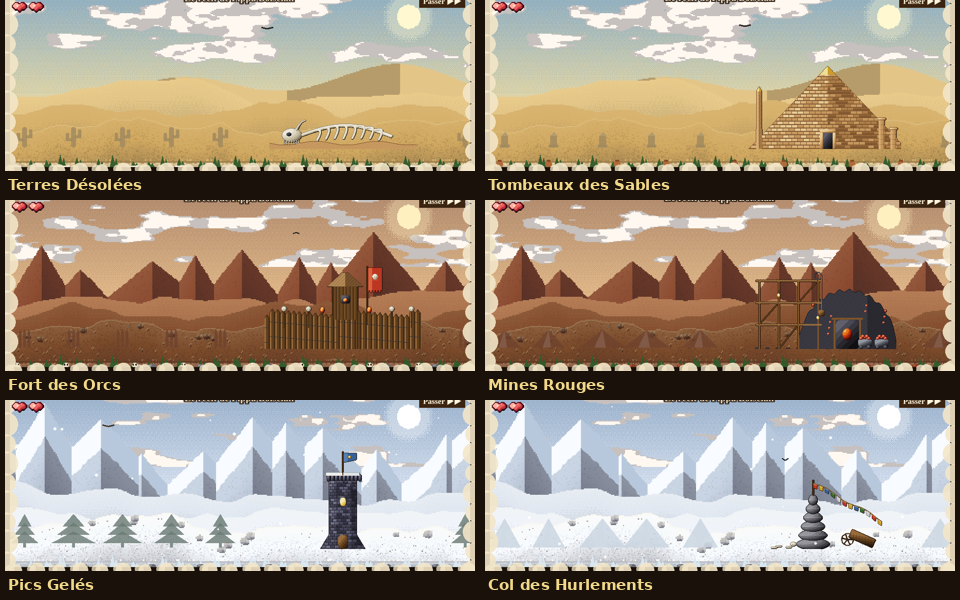
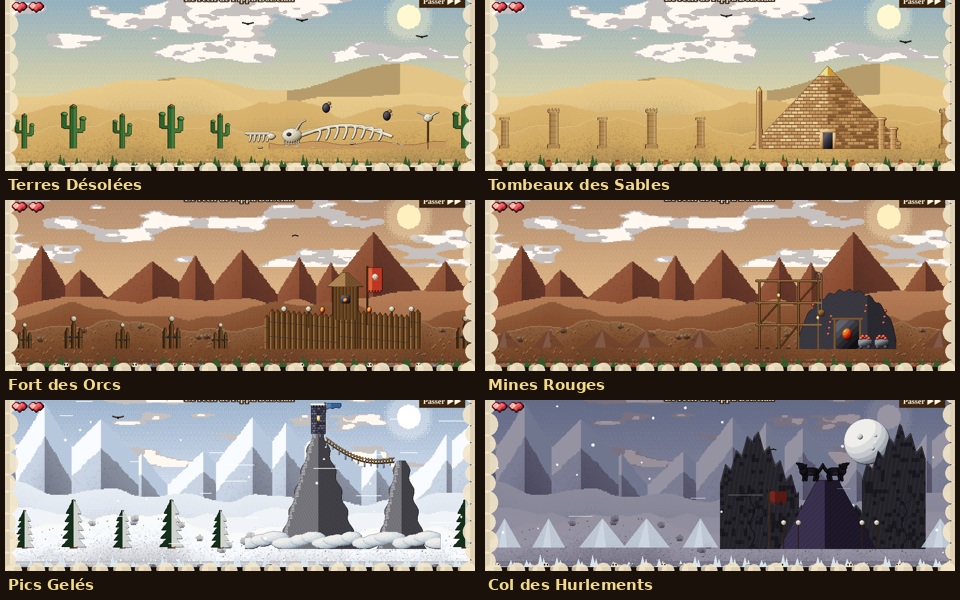
v0.81 : Lothlórien, Fondcombe, Opale, Bibliothèque, Désolées, Col, Pics refaits ; arbres peints (planche 11 v3 à valider)
Claude-Session: https://claude.ai/code/session_018kbaP56NxxNMUzmj9EfKBC

diff --git a/src/reperesHD.js b/src/reperesHD.js
@@ -379,3 +379,266 @@ function textureRepere(scene, quoi) {
   t.texture(scene, cle);
   return cle;
 }
+
+// --- (v0.81) Les repères refaits à la demande du joueur ---
+Object.assign(RAMPES_REPERES, {
+  feuilleOr: [0x5a3a06, 0x8a5c0a, 0xc08a14, 0xe0b028, 0xf4d04a, 0xfff090],
+  argent: [0x5a6070, 0x8890a0, 0xb0b8c4, 0xd0d6de, 0xe8ecf0, 0xffffff],
+  lueurBleue: [0x1a3a6a, 0x2a5aa0, 0x4a84d0, 0x78b0f0, 0xb0d8ff, 0xf0faff],
+  automne: [0x4a1a06, 0x7a2e0a, 0xb04a12, 0xd86a20, 0xf0943a, 0xffc070],
+  nuit: [0x0a0812, 0x14101e, 0x201a2e, 0x2e2640, 0x3e3456, 0x544a70],
+  loup: [0x0c0c10, 0x18181e, 0x26262e, 0x363640, 0x4a4a56, 0x62626e],
+  mousse: [0x0e2414, 0x1a3a1e, 0x26502a, 0x346a36, 0x468844, 0x60a858],
+});
+for (const [k, v] of Object.entries(RAMPES_REPERES)) if (!REPERES_HD.__rampes) REPERES_HD.__rampes = true;
+
+// Un halo de lumière autour d'un point (des pixels clairs de plus en plus rares)
+function halo(t, mat, cx, cy, r) {
+  for (let y = Math.floor(cy - r); y <= cy + r; y++) for (let x = Math.floor(cx - r); x <= cx + r; x++) {
+    const d = Math.hypot(x - cx, y - cy);
+    if (d <= r && hachage(x, y, 5) > d / r) t.poser(x, y, mat, d < r * 0.35 ? 5 : 4);
+  }
+}
+// Une couronne de feuillage : un ellipsoïde dont le bord est découpé en touffes, et des reflets
+function feuillage(t, mat, cx, cy, rx, ry, graine = 1) {
+  t.forme(mat, (x, y) => {
+    const dx = (x + 0.5 - cx) / rx, dy = (y + 0.5 - cy) / ry, d = dx * dx + dy * dy;
+    const bord = 1 - 0.14 * hachage(Math.floor(x / 4), Math.floor(y / 4), graine);
+    return d <= bord ? [dx, dy, Math.sqrt(Math.max(0, 1 - d))] : null;
+  }, { motif: (x, y) => (hachage(x, y, graine + 3) > 0.86 ? 0.8 : hachage(x, y, graine + 7) > 0.88 ? -0.7 : 0) });
+}
+
+// Un étage de feuillage fait de nombreuses touffes (plus vivant qu'un seul disque) : le dessous dans l'ombre
+function etageFeuilles(t, mat, cx, cy, rx, ry, graine, n = 26) {
+  for (let k = 0; k < n; k++) {
+    const a = hachage(k, 1, graine) * Math.PI * 2, r = Math.sqrt(hachage(k, 2, graine));
+    const x = cx + Math.cos(a) * rx * r * 0.85, y = cy + Math.sin(a) * ry * r * 0.7 - ry * 0.15;
+    const tr = 7 + hachage(k, 3, graine) * (rx / 6);
+    feuillage(t, mat, x, y, tr, tr * 0.7, graine + k);
+  }
+  for (let x = Math.round(cx - rx); x <= cx + rx; x++) for (let y = Math.round(cy); y <= cy + ry; y++) if (t.mat(x, y) === mat && t.mat(x, y + 1) !== mat) { t.poser(x, y, mat, 1); t.poser(x, y - 1, mat, 2); }   // le dessous, dans l'ombre
+}
+
+Object.assign(REPERES_HD, {
+  // Lothlórien : un mallorn géant au tronc d'argent, ses étages de feuilles d'or, un talan (plateforme)
+  // et sa maison elfique aux fenêtres de lumière, l'escalier qui tourne autour du tronc et ses
+  // lanternes, d'autres mallorns, et des lueurs bleues qui flottent
+  lothlorien: { l: 400, h: 300, dessin(t) {
+    // les mallorns du fond, de chaque côté
+    for (const [cx, h, r] of [[40, 210, 44], [360, 230, 48], [100, 170, 32]]) {
+      remplir(t, 'argent', (x, y) => y >= 300 - h && Math.abs(x + 0.5 - cx) < 5 + Math.max(0, y - 280) * 0.5, (x) => (x < cx ? 4 : 2));
+      etageFeuilles(t, 'feuilleOr', cx, 300 - h, r, r * 0.6, cx, 12);
+    }
+    // le grand tronc d'argent, épais, cannelé, ses racines qui s'étalent
+    remplir(t, 'argent', (x, y) => { const w = 20 + Math.max(0, y - 240) ** 1.4 * 0.16; return y >= 60 && Math.abs(x + 0.5 - 200) < w; },
+      (x, y) => (x < 190 ? 5 : x > 210 ? 2 : 3) + ((x - 200) % 7 === 0 ? -1 : 0) + ((y * 3 + x) % 23 === 0 ? -1 : 0));
+    for (const [x1, y1] of [[100, 186], [300, 186], [120, 100], [280, 100], [170, 46], [230, 46]]) ligne(t, 'argent', 4, 200, y1 + 26, x1, y1, 4);   // les grandes branches qui montent
+    // les étages de feuilles d'or, en touffes
+    etageFeuilles(t, 'feuilleOr', 200, 196, 120, 30, 21, 30);
+    etageFeuilles(t, 'feuilleOr', 200, 100, 140, 46, 22, 40);
+    etageFeuilles(t, 'feuilleOr', 200, 44, 86, 30, 23, 22);
+    // le talan : une plateforme blanche, la maison elfique, ses fenêtres en arc et son toit doré
+    remplir(t, 'marbre', (x, y) => y >= 140 && y < 146 && Math.abs(x + 0.5 - 200) < 74, (x, y) => (y === 140 ? 5 : 3));
+    remplir(t, 'marbre', (x, y) => y >= 114 && y < 140 && Math.abs(x + 0.5 - 200) < 42, (x) => (x < 190 ? 4 : 3));
+    remplir(t, 'feuilleOr', (x, y) => y >= 98 && y < 116 && Math.abs(x + 0.5 - 200) < (y - 94) * 2.6, (x) => (x < 200 ? 5 : 3));
+    for (const x of [172, 188, 212, 228]) t.forme('lumiere', (px, py) => { const dx = px + 0.5 - x, dy = py + 0.5 - 126; return Math.abs(dx) < 4 && dy < 12 && (dy > 0 || dx * dx + dy * dy < 16) ? [0, 0, 1] : null; }, { decalage: 1 });
+    for (let x = 128; x <= 272; x += 7) ligne(t, 'marbre', 4, x, 140, x, 134, 1);
+    // l'escalier blanc qui tourne autour du tronc, et ses lanternes
+    for (let k = 0; k < 9; k++) { const y = 288 - k * 16, x = 200 + (k % 2 ? 30 : -30); ligne(t, 'marbre', 5, 200, y + 8, x, y, 2); if (k % 2 === 0) halo(t, 'lumiere', x, y - 4, 4.5); }
+    // les lueurs bleues qui flottent
+    for (let k = 0; k < 18; k++) halo(t, 'lueurBleue', 20 + hachage(k, 1, 9) * 360, 30 + hachage(k, 2, 9) * 250, 2.5 + hachage(k, 3, 9) * 2.5);
+  } },
+  // Fondcombe : la vallée cachée, les falaises et leurs cascades, la maison d'Elrond en pierre
+  // claire, ses tours fines, ses arches et ses fenêtres dorées, le pont sur les chutes, les arbres d'automne
+  fondcombe: { l: 420, h: 290, dessin(t) {
+    // les falaises et la mousse
+    // (des falaises aux bords déchiquetés, des strates claires et des ombres)
+    const bordG = y => 70 + Math.sin(y * 0.05) * 18 + Math.sin(y * 0.19) * 7 - Math.max(0, 60 - y) * 0.9, bordD = y => 340 - Math.sin(y * 0.045) * 16 - Math.sin(y * 0.23) * 6 + Math.max(0, 40 - y) * 1.2;
+    remplir(t, 'roche', (x, y) => x < bordG(y) || x > bordD(y), (x, y) => { const strate = Math.floor((y + Math.sin(x * 0.1) * 4) / 9) % 3; return 2 + strate + (Math.abs(x - bordG(y)) < 4 || Math.abs(x - bordD(y)) < 4 ? 1 : 0) - (hachage(x >> 2, y >> 2, 2) > 0.8 ? 1 : 0); });
+    for (let k = 0; k < 10; k++) { const g = k < 5, x = g ? 10 + k * 12 : 350 + (k - 5) * 14, y = 40 + ((k * 53) % 220); remplir(t, 'sapin', (px, py) => py >= y && py < y + 22 && Math.abs(px + 0.5 - x) < (py - y) * 0.4, (px) => (px < x ? 4 : 2)); }   // des sapins accrochés aux parois
+    for (let k = 0; k < 40; k++) { const x = hachage(k, 1, 4) < 0.5 ? hachage(k, 2, 4) * 90 : 330 + hachage(k, 2, 4) * 90, y = 30 + hachage(k, 3, 4) * 250; t.forme('mousse', ellipsoide(x, y, 5, 3), { decalage: 0.2, bord: false }); }
+    // les cascades
+    for (const [x0, l] of [[70, 8], [300, 10], [348, 6]]) remplir(t, 'lueurBleue', (x, y) => x >= x0 && x < x0 + l && y > 40, (x, y) => ((y + x * 3) % 7 < 3 ? 5 : 4));
+    // la maison principale : des terrasses de pierre claire
+    for (const [x0, x1, y0, h] of [[110, 230, 150, 70], [200, 320, 180, 60], [130, 200, 110, 50]]) {
+      remplir(t, 'marbre', (x, y) => x >= x0 && x < x1 && y >= y0 && y < y0 + h, (x, y) => tonBlocs(x, y, 14, 9, 3, (x) => (x < x0 + 10 ? 1 : 0)));
+      remplir(t, 'rondin', (x, y) => y >= y0 - 22 && y < y0 && Math.abs(x + 0.5 - (x0 + x1) / 2) < (x1 - x0) / 2 + 6 - (y0 - y) * ((x1 - x0) / 2 + 6) / 24, (x) => (x < (x0 + x1) / 2 ? 4 : 2));
+      for (let x = x0 + 8; x < x1 - 8; x += 14) { t.forme('lumiere', (px, py) => { const dx = px + 0.5 - x, dy = py + 0.5 - (y0 + 14); return Math.abs(dx) < 4 && dy < 14 && (dy > 0 || dx * dx + dy * dy < 16) ? [0, 0, 1] : null; }, { decalage: 0.8 }); }
+    }
+    // deux tours fines au toit pointu
+    for (const [cx, haut] of [[150, 40], [290, 70]]) { remplir(t, 'marbre', (x, y) => y >= haut && y < 200 && Math.abs(x + 0.5 - cx) < 9, (x) => (x < cx ? 5 : 3)); remplir(t, 'rondin', (x, y) => y >= haut - 34 && y < haut && Math.abs(x + 0.5 - cx) < (y - haut + 34) * 0.32, (x) => (x < cx ? 4 : 2)); t.forme('lumiere', boite(cx - 3, haut + 10, cx + 3, haut + 22, 3), { decalage: 1 }); }
+    // le pont en arches sur les chutes
+    remplir(t, 'marbre', (x, y) => { if (y < 236 || y >= 250 || x < 220 || x >= 340) return false; return true; }, (x, y) => (y === 236 ? 5 : 3));
+    for (const cx of [250, 290, 330]) remplir(t, 'marbre', (x, y) => y >= 250 && y < 290 && Math.abs(x + 0.5 - cx) < 20 && !((x + 0.5 - cx) ** 2 + (y - 290) ** 2 < 300), (x) => (x < cx ? 4 : 2));
+    // les arbres d'automne, et des lanternes
+    for (const [cx, cy, r] of [[112, 248, 24], [172, 262, 20], [372, 236, 22]]) { remplir(t, 'rondin', (x, y) => y >= cy && y < 290 && Math.abs(x + 0.5 - cx) < 3, (x) => (x < cx ? 4 : 2)); etageFeuilles(t, 'automne', cx, cy - 4, r, r * 0.75, cx, 9); }
+    for (let k = 0; k < 10; k++) halo(t, 'lumiere', 110 + hachage(k, 1, 6) * 220, 120 + hachage(k, 2, 6) * 150, 2.5);
+  } },
+  // La Cité d'Opale : un rempart de cristal et sa porte, une forêt de flèches et de coupoles, la
+  // grande tour et son anneau qui flotte, des éclats de cristal en suspension, des ponts de lumière
+  opaleCite: { l: 400, h: 300, dessin(t) {
+    // les flèches, de la plus lointaine à la plus proche
+    for (const [cx, h, w, dome] of [[40, 170, 12, 0], [80, 220, 14, 1], [130, 190, 16, 0], [270, 200, 16, 1], [320, 230, 14, 0], [360, 160, 12, 1]]) {
+      remplir(t, 'opale', (x, y) => y >= 300 - h && Math.abs(x + 0.5 - cx) < w * Math.min(1, (y - (300 - h)) / 26 + 0.12), (x, y) => (x < cx - w / 3 ? 5 : x > cx + w / 3 ? 2 : 3) + ((y * 2 + x) % 19 === 0 ? 1 : 0));
+      if (dome) t.forme('opale', ellipsoide(cx, 300 - h + 40, w + 6, w), { decalage: 0.4 });
+      for (let y = 300 - h + 50; y < 260; y += 18) t.forme('lumiere', boite(cx - 2, y, cx + 2, y + 7, 2), { decalage: 1 });
+      halo(t, 'lumiere', cx, 300 - h - 4, 4);
+    }
+    // la grande tour au centre et son anneau flottant
+    remplir(t, 'opale', (x, y) => y >= 30 && Math.abs(x + 0.5 - 200) < 24 * Math.min(1, (y - 30) / 40 + 0.15), (x, y) => (x < 192 ? 5 : x > 210 ? 2 : 3) + (y % 24 === 0 ? -1 : 0));
+    t.forme('opale', ellipsoide(200, 110, 34, 20), { decalage: 0.5 });
+    for (let a = 0; a < 6.28; a += 0.02) { const x = Math.round(200 + Math.cos(a) * 54), y = Math.round(70 + Math.sin(a) * 12); if (!(Math.sin(a) < 0 && Math.abs(x - 200) < 22)) t.poser(x, y, 'or', Math.sin(a) > 0 ? 4 : 2); }
+    for (let y = 130; y < 270; y += 20) t.forme('lumiere', boite(196, y, 204, y + 10, 3), { decalage: 1 });
+    // des éclats de cristal qui flottent
+    for (let k = 0; k < 9; k++) { const x = 30 + hachage(k, 1, 3) * 340, y = 10 + hachage(k, 2, 3) * 70; remplir(t, 'opale', (px, py) => Math.abs(px - x) / 3 + Math.abs(py - y) / 7 <= 1, (px) => (px < x ? 5 : 3)); }
+    // les ponts de lumière entre les tours
+    for (const [x0, x1, y] of [[80, 130, 150], [130, 176, 130], [224, 270, 140], [270, 320, 120]]) for (let x = x0; x <= x1; x++) t.poser(x, Math.round(y + Math.sin((x - x0) / (x1 - x0) * Math.PI) * 6), 'lumiere', 4);
+    // le rempart de cristal et sa porte
+    remplir(t, 'opale', (x, y) => y >= 254 && y < 300, (x, y) => tonBlocs(x, y, 16, 9, 2));
+    for (let x = 0; x < 400; x += 14) t.forme('opale', boite(x, 246, x + 8, 254, 1), { decalage: 0.3 });
+    t.forme('or', (x, y) => { const dx = x + 0.5 - 200, dy = y + 0.5 - 280; return y < 300 && Math.abs(dx) < 16 && (dy >= 0 || dx * dx + dy * dy < 256) ? [dx / 18, 0, 0.8] : null; }, { decalage: 0.2 });
+  } },
+  // La Bibliothèque Interdite : la grande tour et ses contreforts, deux tourelles, l'escalier qui
+  // s'enroule dehors, un livre géant ouvert qui flotte au sommet, des rochers suspendus par des
+  // chaînes, des piles de livres au pied
+  bibliothequeHD: { l: 340, h: 300, dessin(t) {
+    // les rochers flottants enchaînés
+    for (const [cx, cy] of [[40, 60], [300, 90]]) { t.forme('roche', ellipsoide(cx, cy, 22, 10), { decalage: 0.1 }); remplir(t, 'roche', (x, y) => y > cy && y < cy + 18 && Math.abs(x + 0.5 - cx) < 18 - (y - cy), () => 2); ligne(t, 'fer', 2, cx + (cx < 170 ? 14 : -14), cy + 4, 170 + (cx < 170 ? -40 : 40), 150, 1); t.forme('pierreBleue', boite(cx - 8, cy - 22, cx + 8, cy - 8, 2), { decalage: 0.2 }); t.forme('lumiere', boite(cx - 2, cy - 18, cx + 2, cy - 12, 1), { decalage: 1 }); }
+    // les tourelles
+    for (const [cx, haut] of [[100, 120], [240, 140]]) { remplir(t, 'pierreBleue', (x, y) => y >= haut && Math.abs(x + 0.5 - cx) < 16, (x, y) => tonBlocs(x, y, 8, 6, 2, (x) => (x < cx - 6 ? 1 : 0))); remplir(t, 'ardoise', (x, y) => y >= haut - 40 && y < haut && Math.abs(x + 0.5 - cx) < (y - haut + 40) * 0.45, (x) => (x < cx ? 4 : 2)); t.forme('lumiere', boite(cx - 3, haut + 20, cx + 3, haut + 34, 3), { decalage: 1 }); }
+    // la grande tour et ses contreforts
+    remplir(t, 'pierreBleue', (x, y) => y >= 90 && Math.abs(x + 0.5 - 170) < 46 + Math.max(0, y - 270) * 0.6, (x, y) => tonBlocs(x, y, 10, 7, 3, (x) => (x < 150 ? 1 : x > 195 ? -1 : 0)));
+    for (const s of [-1, 1]) remplir(t, 'pierreBleue', (x, y) => { const d = (x + 0.5 - 170) * s - 46; return d >= 0 && d < (y - 170) * 0.35 && y < 300; }, () => 2);
+    remplir(t, 'ardoise', (x, y) => y >= 40 && y < 92 && Math.abs(x + 0.5 - 170) < (y - 36) * 0.9, (x, y) => (x < 170 ? 4 : 2) + (y % 6 === 0 ? -1 : 0));
+    for (let k = 0; k < 4; k++) for (const x of [150, 190]) { const y = 112 + k * 40; t.forme('rochesombre', boite(x - 7, y, x + 7, y + 22, 7), { decalage: 0 }); t.forme('lumiere', boite(x - 5, y + 2, x + 5, y + 22, 5), { decalage: 0.9 }); }
+    t.forme('rondin', boite(156, 262, 184, 300, 14), { decalage: -0.1 });
+    // l'escalier qui s'enroule
+    for (let k = 0; k < 12; k++) { const y = 290 - k * 17, x = k % 2 ? 222 : 118; ligne(t, 'pierre', 4, x, y, k % 2 ? 118 : 222, y - 17, 2); }
+    // le livre géant ouvert qui flotte au sommet, ses pages lumineuses
+    remplir(t, 'parchemin', (x, y) => y >= 6 && y < 30 && Math.abs(x + 0.5 - 170) < 44 && y > 6 + Math.abs(x + 0.5 - 170) * 0.12, (x, y) => (x === 170 ? 1 : (y % 4 === 0 && Math.abs(x - 170) > 6 && Math.abs(x - 170) < 38) ? 2 : 5));
+    remplir(t, 'tuile', (x, y) => y >= 28 && y < 33 && Math.abs(x + 0.5 - 170) < 46, () => 2);
+    for (let k = 0; k < 8; k++) halo(t, 'lumiere', 130 + k * 11, 4 - (k % 3) * 2, 2.5);
+    // des piles de livres au pied
+    for (const [x, n] of [[40, 5], [70, 3], [270, 4], [300, 6]]) for (let k = 0; k < n; k++) t.forme(['tuile', 'eau', 'vert', 'or', 'automne'][(k + x) % 5], boite(x - 12 + (k % 2) * 3, 296 - k * 5, x + 12 + (k % 2) * 3, 300 - k * 5, 1), { decalage: 0.2 });
+  } },
+  // Les Terres Désolées : le squelette géant, une seconde carcasse plus petite, un crâne cornu planté
+  // sur une pique, des os partout, et des vautours perchés
+  cotesHD: { l: 420, h: 130, dessin(t) {
+    REPERES_HD.cotes.dessin({ ...t, poser: (x, y, m, k) => t.poser(x + 60, y + 20, m, k), forme: (m, f, o) => t.forme(m, (x, y) => f(x - 60, y - 20), o), mat: (x, y) => t.mat(x + 60, y + 20), l: t.l, h: t.h });
+    // la petite carcasse (une cage thoracique et un crâne cornu)
+    for (let k = 0; k < 5; k++) for (let j = 0; j < 22; j++) t.forme('os', ellipsoide(16 + k * 9 + Math.sin(j / 22 * 2.6) * 6, 100 + j * 0.7 - Math.sin(j / 22 * Math.PI) * 6, 1.6, 1.6), { bord: false });
+    for (let x = 12; x < 60; x++) t.forme('os', ellipsoide(x, 98, 1.8, 1.8), { bord: false });
+    t.forme('os', ellipsoide(64, 104, 8, 6)); t.poser(62, 103, 'rochesombre', 0);
+    // le crâne cornu sur une pique
+    ligne(t, 'rondin', 3, 384, 70, 384, 130, 2);
+    t.forme('os', ellipsoide(384, 66, 9, 8)); t.poser(381, 65, 'rochesombre', 0); t.poser(387, 65, 'rochesombre', 0);
+    for (const s of [-1, 1]) for (let j = 0; j < 16; j++) t.forme('os', ellipsoide(384 + s * (8 + j * 0.9), 62 - j * 0.9 + j * j * 0.03, 2 - j * 0.08, 2 - j * 0.08), { bord: false });
+    // des os éparpillés
+    for (let k = 0; k < 10; k++) { const x = 20 + hachage(k, 1, 8) * 380, y = 118 + hachage(k, 2, 8) * 10; t.forme('os', boite(x - 5, y - 1, x + 5, y + 1, 1), { decalage: 0.3 }); }
+    // deux vautours perchés, voûtés, le cou pelé
+    for (const [x, y] of [[176, 46], [300, 62]]) {
+      t.forme('loup', ellipsoide(x, y, 7, 9), { decalage: 0.1 });
+      t.forme('peau', ellipsoide(x + 6, y - 9, 3, 3), { decalage: 0.3 }); t.poser(x + 9, y - 9, 'or', 4);
+      for (let k = 0; k < 4; k++) t.poser(x + 7 + k, y - 6 + k, 'os', 4);   // la collerette
+    }
+  } },
+  // Le Col des Hurlements : un col de roches noires en dents de scie, une lune pâle, deux loups qui
+  // hurlent sur un éperon, des arbres morts tordus, des crânes sur des pieux, une bannière déchirée
+  colHurlements: { l: 420, h: 290, dessin(t) {
+    t.forme('argent', ellipsoide(300, 70, 46, 46), { decalage: 0.6, bord: false });   // la lune
+    for (const [x, y, r] of [[286, 60, 6], [312, 84, 4], [318, 58, 3]]) t.forme('argent', ellipsoide(x, y, r, r), { decalage: -0.8, bord: false });
+    // les roches noires en dents de scie, de chaque côté
+    const crete = x => { // la ligne des crêtes : deux grands crocs de roche, le col entre eux
+      const dent = Math.abs(((x * 0.09) % 2) - 1) * 26;
+      if (x < 160) return 40 + Math.abs(x - 70) * 1.3 + dent;
+      if (x > 290) return 30 + Math.abs(x - 370) * 1.2 + dent;
+      return 200 + dent * 0.5;
+    };
+    remplir(t, 'loup', (x, y) => y > crete(x), (x, y) => (y - crete(x) < 3 ? 4 : 2) + ((x + Math.floor(y / 6)) % 9 === 0 ? 1 : 0) - (hachage(x >> 3, y >> 3, 3) > 0.75 ? 1 : 0));
+    // l'éperon et les deux loups qui hurlent
+    remplir(t, 'nuit', (x, y) => y >= 150 && y < 290 && Math.abs(x + 0.5 - 220) < 22 + (y - 150) * 0.55, (x, y) => (x < 214 ? 4 : 2) + ((x + y) % 11 === 0 ? -1 : 0));
+    // (les loups qui hurlent sont posés par-dessus : les vrais loups des récits, en silhouette)
+    // des arbres morts tordus
+    for (const [x0, h] of [[60, 120], [370, 100]]) { let x = x0, y = 290; for (let k = 0; k < h; k++) { x += Math.sin(k * 0.12) * 0.6; t.poser(Math.round(x), y - k, 'nuit', 1); t.poser(Math.round(x) + 1, y - k, 'nuit', 1); if (k > h * 0.4 && k % 18 === 0) ligne(t, 'nuit', 1, x, y - k, x + (k % 36 ? 22 : -22), y - k - 16, 1); } }
+    // des crânes sur des pieux, une bannière déchirée
+    for (const x of [130, 160, 290, 320]) { ligne(t, 'rondin', 1, x, 240, x, 290, 2); t.forme('os', ellipsoide(x, 236, 5, 5), { decalage: 0.2 }); t.poser(x - 2, 236, 'rochesombre', 0); t.poser(x + 2, 236, 'rochesombre', 0); }
+    ligne(t, 'rondin', 2, 100, 170, 100, 290, 2);
+    remplir(t, 'cuirRouge', (x, y) => x >= 102 && x < 136 && y >= 172 && y < 200 - ((x * 7) % 11), (x) => (x < 112 ? 3 : 2));
+  } },
+  // Les Pics Gelés : une aiguille de roche qui monte très haut, la tour de guet naine perchée tout en
+  // haut, un pont de corde vers un autre pic, la mer de nuages en bas, des stalactites de glace,
+  // une bannière gelée tendue par le vent
+  sommet: { l: 400, h: 300, dessin(t) {
+    // les deux pics
+    for (const [cx, w, haut] of [[150, 70, 60], [320, 50, 120]]) {
+      remplir(t, 'roche', (x, y) => y >= haut && Math.abs(x + 0.5 - cx) < 10 + (y - haut) * w / 240 + Math.sin(y * 0.15) * 3, (x, y) => (x < cx ? 4 : 2) + ((x * 5 + y * 3) % 11 === 0 ? -1 : 0));
+      for (let y = haut; y < 300; y += 3) { const w2 = 10 + (y - haut) * w / 240; for (let x = Math.round(cx - w2); x < cx - w2 + 4 + ((y * 7) % 5); x++) t.poser(x, y, 'neige', 5); }   // la neige collée au flanc
+    }
+    // la tour naine tout en haut du grand pic
+    remplir(t, 'pierreBleue', (x, y) => y >= 10 && y < 64 && Math.abs(x + 0.5 - 150) < 14, (x, y) => tonBlocs(x, y, 7, 5, 3, (x) => (x < 144 ? 1 : 0)));
+    for (let x = 136; x <= 164; x += 6) t.forme('pierreBleue', boite(x, 4, x + 3, 10, 1), { decalage: 0.3 });
+    remplir(t, 'neige', (x, y) => y >= 2 && y < 6 && Math.abs(x + 0.5 - 150) < 16, () => 5);
+    t.forme('lumiere', boite(147, 26, 153, 38, 3), { decalage: 1 });
+    // la bannière gelée, tendue à l'horizontale par le vent
+    ligne(t, 'rondin', 2, 164, 0, 164, 20, 2); remplir(t, 'eau', (x, y) => x >= 166 && x < 196 && y >= 2 && y < 12 - (x - 166) * 0.1 + Math.sin(x * 0.5), (x) => (x < 176 ? 4 : 3));
+    // le pont de corde entre les deux pics
+    for (let x = 166; x <= 304; x++) { const y = Math.round(80 + Math.sin((x - 166) / 138 * Math.PI) * 18 + (x - 166) * 0.3); t.poser(x, y, 'rondin', x % 4 === 0 ? 1 : 3); if (x % 6 === 0) ligne(t, 'chanvre', 3, x, y, x, y - 8, 1); t.poser(x, y - 8 - Math.round(Math.sin((x - 166) / 138 * Math.PI) * -2), 'chanvre', 3); }
+    // des stalactites de glace sous le pont et la tour
+    for (let k = 0; k < 14; k++) { const x = 140 + k * 13, y = k < 2 ? 64 : Math.round(82 + Math.sin((x - 166) / 138 * Math.PI) * 18 + (x - 166) * 0.3); for (let j = 0; j < 4 + (k % 3) * 2; j++) t.poser(x, y + 1 + j, 'lueurBleue', 5 - (j > 3 ? 1 : 0)); }
+    // la mer de nuages en bas : on est au-dessus de tout
+    for (let k = 0; k < 16; k++) feuillage(t, 'neige', 10 + k * 26, 288 - (k % 3) * 6, 22 + (k % 4) * 4, 12, k);
+  } },
+});
+
+// --- (v0.81) Les arbres du plan moyen, peints eux aussi (au lieu des silhouettes) ---
+const ARBRES_HD = {
+  ronds(t) { tronc(t, 40, 120, 70, 4); feuillage(t, 'vert', 40, 52, 28, 24, 1); feuillage(t, 'vert', 22, 66, 16, 14, 2); feuillage(t, 'vert', 58, 66, 16, 14, 3); },
+  pommiers(t) {
+    tronc(t, 40, 120, 74, 4); ligne(t, 'rondin', 3, 40, 80, 26, 64, 2); ligne(t, 'rondin', 3, 40, 80, 56, 62, 2);
+    feuillage(t, 'vert', 40, 56, 32, 24, 4);
+    for (let k = 0; k < 11; k++) { const x = 16 + hachage(k, 1, 4) * 48, y = 40 + hachage(k, 2, 4) * 34; if (t.mat(Math.round(x), Math.round(y)) === 'vert') { t.forme('pomme', ellipsoide(x, y, 2.4, 2.4), { decalage: 0.5 }); t.poser(Math.round(x) - 1, Math.round(y) - 1, 'pomme', 5); } }
+  },
+  saules(t) {
+    tronc(t, 40, 120, 60, 5);
+    feuillage(t, 'vert', 40, 54, 34, 18, 5);
+    for (let k = -8; k <= 8; k++) { const x = 40 + k * 4, l = 40 - Math.abs(k) * 2.5; for (let j = 0; j < l; j++) t.poser(Math.round(x + Math.sin(j * 0.15) * 1.5), 58 + j, 'vert', (j + k) % 4 === 0 ? 4 : 2 + (k < 0 ? 1 : 0)); }
+  },
+  cypres(t) { tronc(t, 40, 120, 106, 2); feuillage(t, 'vert', 40, 62, 10, 52, 6); },
+  chenes(t) {
+    tronc(t, 40, 120, 72, 7); ligne(t, 'rondin', 4, 40, 76, 18, 58, 3); ligne(t, 'rondin', 4, 40, 76, 62, 56, 3);
+    for (const [x, y, r] of [[40, 42, 22], [18, 56, 16], [62, 56, 16], [28, 30, 14], [52, 30, 14]]) feuillage(t, 'vert', x, y, r, r * 0.8, x + y);
+  },
+  sapins(t) {
+    tronc(t, 40, 120, 104, 3);
+    for (let k = 0; k < 5; k++) remplir(t, 'sapin', (x, y) => { const y0 = 14 + k * 18, h = 30; return y >= y0 && y < y0 + h && Math.abs(x + 0.5 - 40) < (y - y0) * (0.55 + k * 0.08); }, (x, y) => (x < 40 ? 4 : 2) + ((x + y) % 5 === 0 ? -1 : 0));
+  },
+  sapinsNeige(t) { ARBRES_HD.sapins(t); for (let y = 0; y < t.h; y++) for (let x = 0; x < 40; x++) if (t.mat(x, y) === 'sapin' && t.mat(x, y - 1) !== 'sapin') { t.poser(x, y, 'neige', 5); t.poser(x, y + 1, 'neige', 4); } },
+  mallorns(t) { remplir(t, 'argent', (x, y) => y >= 30 && Math.abs(x + 0.5 - 40) < 4 + Math.max(0, y - 108) * 0.6, (x) => (x < 40 ? 5 : 3)); ligne(t, 'argent', 4, 40, 70, 20, 58, 2); ligne(t, 'argent', 4, 40, 70, 60, 58, 2); etageFeuilles(t, 'feuilleOr', 40, 66, 30, 12, 7, 9); etageFeuilles(t, 'feuilleOr', 40, 32, 32, 18, 8, 12); },
+  automne(t) { tronc(t, 40, 120, 70, 4); feuillage(t, 'automne', 40, 50, 28, 26, 9); feuillage(t, 'feuilleOr', 52, 40, 12, 10, 10); },
+  cactus(t) {
+    const bras = (x0, y0, x1, y1, w) => remplir(t, 'cactus', (x, y) => x >= Math.min(x0, x1) - w && x <= Math.max(x0, x1) + w && y >= Math.min(y0, y1) && y <= Math.max(y0, y1), (x) => (x % 3 === 0 ? 2 : 3) + (x < 40 ? 1 : 0));
+    bras(40, 30, 40, 120, 6); bras(20, 56, 20, 80, 4); bras(20, 78, 34, 84, 0); bras(60, 46, 60, 74, 4); bras(46, 72, 60, 76, 0);
+    for (const [x, y] of [[40, 30], [20, 56], [60, 46]]) t.forme('cactus', ellipsoide(x, y, 6, 4), { decalage: 0.3 });
+    t.forme('plume', ellipsoide(40, 27, 3, 2), { decalage: 0.5 });   // une fleur au sommet
+  },
+  colonnes(t) { remplir(t, 'gres', (x, y) => y >= 40 && y < 120 && Math.abs(x + 0.5 - 40) < 9, (x, y) => (x < 36 ? 4 : x > 44 ? 2 : 3) - (y % 12 === 0 ? 1 : 0)); remplir(t, 'gres', (x, y) => y >= 34 + (x % 7) && y < 42 && Math.abs(x + 0.5 - 40) < 12, () => 4); remplir(t, 'gres', (x, y) => y >= 112 && Math.abs(x + 0.5 - 40) < 13, () => 3); },
+  pieux(t) { for (const dx of [-14, 0, 14]) { remplir(t, 'rondin', (x, y) => y >= 60 + Math.abs(dx) && Math.abs(x + 0.5 - 40 - dx) < 4 && (y >= 70 + Math.abs(dx) || Math.abs(x + 0.5 - 40 - dx) < (y - 60 - Math.abs(dx)) * 0.4), (x) => (x < 40 + dx ? 4 : 2)); } ligne(t, 'fer', 2, 22, 96, 58, 96, 2); t.forme('os', ellipsoide(40, 56, 5, 5), { decalage: 0.3 }); t.poser(38, 56, 'rochesombre', 0); t.poser(42, 56, 'rochesombre', 0); },
+};
+function tronc(t, cx, bas, haut, w) {
+  remplir(t, 'rondin', (x, y) => y >= bas - haut && y < bas && Math.abs(x + 0.5 - cx) < w + Math.max(0, y - bas + 8) * 0.6, (x, y) => (x < cx - 1 ? 4 : 2) + ((y * 3) % 11 === 0 ? -1 : 0));
+}
+Object.assign(RAMPES_REPERES, {
+  pomme: [0x3a0808, 0x6a1010, 0x9a1c18, 0xc83226, 0xe85a40, 0xffa080],
+  sapin: [0x08180e, 0x102818, 0x1a3c22, 0x26522e, 0x386c3c, 0x52884e],
+  cactus: [0x0e2a14, 0x1a4420, 0x2a602e, 0x3e7c3c, 0x58984e, 0x80b46a],
+});
+function textureArbre(scene, forme) {
+  const cle = 'arbreHD_' + forme;
+  if (scene.textures.exists(cle)) return cle;
+  if (!ARBRES_HD[forme]) return null;
+  const t = toileRepere(80, 120);
+  ARBRES_HD[forme](t);
+  t.contour();
+  t.texture(scene, cle);
+  return cle;
+}

diff --git a/src/recitVariantes.js b/src/recitVariantes.js
@@ -19,20 +19,20 @@ const VARIANTES_RECIT = {
   mines: { arbres: null, repere: 'chevalement', sol: { pierres: true }, faune: ['chauvesSouris'] },
   forge: { arbres: null, repere: 'porteNaine', sol: { pierres: true }, faune: ['braises'] },
   // --- Les elfes ---
-  sanctuaire: { arbres: 'bouleaux', repere: 'arches', sol: { fleurs: [0xffffff, 0xd8f0ff], luisantes: true }, faune: ['lucioles'] },
-  lac: { arbres: 'saules', repere: 'lac', sol: { roseaux: true, fleurs: [0xffffff] }, faune: ['lucioles', 'poissons'] },
+  sanctuaire: { arbres: 'mallorns', repere: 'lothlorien', sol: { fleurs: [0xffffff, 0xd8f0ff], luisantes: true }, faune: ['lucioles'] },
+  lac: { arbres: 'automne', repere: 'fondcombe', sol: { roseaux: true, fleurs: [0xffffff] }, faune: ['lucioles', 'poissons'] },
   // --- Les mages ---
-  opale: { arbres: null, repere: 'flèches', sol: { cristaux: true }, faune: ['etincelles'] },
-  bibliotheque: { arbres: null, repere: 'tourLivres', sol: { pages: true }, faune: ['livres'] },
+  opale: { arbres: null, repere: 'opaleCite', sol: { cristaux: true }, faune: ['etincelles'] },
+  bibliotheque: { arbres: null, repere: 'bibliothequeHD', sol: { pages: true }, faune: ['livres'] },
   // --- Les sables ---
-  desert: { arbres: 'cactus', repere: 'cotes', sol: { os: true }, faune: ['vautours'] },
+  desert: { arbres: 'cactus', repere: 'cotesHD', sol: { os: true }, faune: ['vautours'] },
   tombeaux: { arbres: 'colonnes', repere: 'pyramide', sol: { poteries: true }, faune: ['vautours'] },
   // --- Les terres brûlées des orcs ---
   fort: { arbres: 'pieux', repere: 'palissade', sol: { pierres: true, cranes: true }, faune: ['corbeaux'] },
   minesRouges: { arbres: null, repere: 'echafaudage', sol: { pierres: true, rouge: true }, faune: ['braises'] },
   // --- La neige ---
-  pics: { arbres: 'sapins', repere: 'tourNaine', sol: { pierres: true }, faune: ['aigle'] },
-  col: { arbres: null, repere: 'cairn', sol: { pierres: true }, faune: ['corbeaux'], vent: true },
+  pics: { arbres: 'sapinsNeige', repere: 'sommet', sol: { pierres: true }, faune: ['aigle', 'blizzard'] },
+  col: { arbres: null, repere: 'colHurlements', sol: { pierres: true, cranes: true }, faune: ['corbeaux', 'vent'], sombre: 0x1a1030 },
 };
 
 function varianteRecit(zone) { return zone ? VARIANTES_RECIT[zone] || null : null; }
@@ -206,13 +206,22 @@ function lancerFaune(scene, quoi, plan) {
     case 'corbeaux': return scene.time.addEvent({ delay: 5200, loop: true, startAt: 3500, callback: () => vol('bat', 0x101014, ciel(60, 160), 7000, 1.1, -1) });
     case 'colombes': return scene.time.addEvent({ delay: 4800, loop: true, startAt: 3000, callback: () => { const y = ciel(60, 150); for (let k = 0; k < 2; k++) scene.time.delayedCall(k * 300, () => vol('bat', 0xf8f8f0, y + k * 12, 8000, 0.9)); } });
     case 'vautours': case 'aigle': {
-      const g = scene.add.graphics(); plan.add(g);
-      g.lineStyle(3, quoi === 'aigle' ? 0x3a2a1a : 0x1a1410, 0.9); g.lineBetween(-12, -3, 0, 0); g.lineBetween(0, 0, 12, -3);
-      const cx = quoi === 'aigle' ? 300 : 620, cy = 80;
-      const t = { a: 0 };
-      scene.tweens.add({ targets: t, a: Math.PI * 2, duration: 9000, repeat: -1, onUpdate: () => g.setPosition(cx + Math.cos(t.a) * 90, cy + Math.sin(t.a) * 26) });
+      // (v0.81) trois vautours qui tournent en rond au-dessus des carcasses (un seul aigle)
+      for (let k = 0; k < (quoi === 'aigle' ? 1 : 3); k++) {
+        const g = scene.add.graphics(); plan.add(g);
+        g.lineStyle(3, quoi === 'aigle' ? 0x3a2a1a : 0x1a1410, 0.9); g.lineBetween(-12, -3, 0, 0); g.lineBetween(0, 0, 12, -3); g.fillStyle(0x1a1410, 0.9).fillCircle(0, 0, 2.5);
+        const cx = quoi === 'aigle' ? 300 : 560 + k * 90, cy = 70 + k * 22, r = 70 + k * 25;
+        const t = { a: k * 2 };
+        scene.tweens.add({ targets: t, a: k * 2 + Math.PI * 2, duration: 8000 + k * 1700, repeat: -1, onUpdate: () => g.setPosition(cx + Math.cos(t.a) * r, cy + Math.sin(t.a) * 22).setScale(Math.cos(t.a) > 0 ? 1 : -1, 1) });
+      }
       return null;
     }
+    case 'vent': case 'blizzard': return scene.time.addEvent({ delay: quoi === 'blizzard' ? 30 : 90, loop: true, callback: () => {
+      // des traînées de neige et de vent, à l'horizontale, qui hurlent à travers le paysage
+      const y = Phaser.Math.Between(10, 350), l = Phaser.Math.Between(20, 70);
+      const r = scene.add.rectangle(1000, y, l, quoi === 'blizzard' ? 2 : 1.5, 0xffffff, quoi === 'blizzard' ? 0.75 : 0.45).setDepth(Math.random() < 0.5 ? -0.45 : 6.8);
+      scene.tweens.add({ targets: r, x: -80, y: y + Phaser.Math.Between(10, 50), duration: Phaser.Math.Between(500, 900), ease: 'Linear', onComplete: () => r.destroy() });
+    } });
     case 'papillons': case 'abeilles': {
       const couleurs = quoi === 'abeilles' ? [0xf0c020] : [0xf8a0c8, 0xf8e060, 0x80c8f8, 0xffffff];
       for (let k = 0; k < (quoi === 'abeilles' ? 6 : 5); k++) {
@@ -233,7 +242,9 @@ function lancerFaune(scene, quoi, plan) {
     }
     case 'chauvesSouris': return scene.time.addEvent({ delay: 2600, loop: true, startAt: 1500, callback: () => vol('bat', 0x1a1018, ciel(60, 200), 4200, 0.9, Math.random() < 0.5 ? 1 : -1) });
     case 'livres': return scene.time.addEvent({ delay: 3400, loop: true, startAt: 1500, callback: () => {
-      const l = scene.add.rectangle(-30, ciel(70, 200), 16, 12, 0x8a2a3a).setStrokeStyle(2, 0xf0e8d0); plan.add(l);
+      const l = scene.add.container(-30, ciel(70, 200)); plan.add(l);
+      const g = scene.add.graphics(); l.add(g);   // (v0.81) un vrai petit livre : la couverture, les pages blanches au milieu
+      g.fillStyle(Phaser.Utils.Array.GetRandom([0x8a2a3a, 0x2a4a8a, 0x2a6a3a]), 1).fillRect(-11, -7, 22, 14); g.fillStyle(0xf4ecd4, 1).fillRect(-9, -6, 8, 11).fillRect(1, -6, 8, 11); g.lineStyle(1, 0x5a4a3a, 0.8).lineBetween(-7, -3, -3, -3).lineBetween(3, -3, 7, -3).lineBetween(-7, 0, -3, 0).lineBetween(3, 0, 7, 0);
       scene.tweens.add({ targets: l, x: 1000, duration: 9000, ease: 'Linear', onComplete: () => l.destroy() });
       scene.tweens.add({ targets: l, scaleY: 0.3, y: l.y - 16, duration: 300, yoyo: true, repeat: -1 });
     } });
@@ -275,20 +286,34 @@ function planterVarianteRecit(scene, zone, biome) {
     const cle = typeof textureRepere === 'function' ? textureRepere(scene, v.repere) : null;
     if (cle) {
       const lac = v.repere === 'lac';
-      scene.planMoyen.addAt(scene.add.image(lac ? 640 : 690, sol + (lac ? 8 : 3), cle).setOrigin(0.5, 1).setTint(0xf0eeea), 0);
+      const img = scene.add.image(lac ? 640 : 690, sol + (lac ? 8 : 3), cle).setOrigin(0.5, 1).setTint(0xf0eeea);
+      scene.planMoyen.addAt(img, 0);
+      // (v0.81) au Col des Hurlements, deux loups noirs hurlent à la lune sur l'éperon
+      if (v.repere === 'colHurlements' && typeof creerRecitEpreuvesHD === 'function') {
+        creerRecitEpreuvesHD(scene);
+        [[662, false], [718, true]].forEach(([x, flip], i) => {
+          const l = scene.add.image(x, img.y - 138, 'loupHD_hurle').setOrigin(0.5, 1).setScale(1.05).setFlipX(flip).setTint(0x2a2430);
+          scene.planMoyen.addAt(l, 1);
+          scene.tweens.add({ targets: l, scaleY: 1.09, duration: 900 + i * 300, yoyo: true, repeat: -1, ease: 'Sine.easeInOut' });
+        });
+      }
     } else { const g = scene.add.graphics(); dessinerRepere(g, v.repere, loin, sol); scene.planMoyen.addAt(g, 0); }
   }
   if (v.arbres) {
     const neige = ['montagne', 'glace', 'neige'].includes(biome);
     const sombre = ['foret', 'marais', 'repaire', 'tour', 'grotte'].includes(biome);
     const teinte = neige ? 0x6a7a74 : melangeCouleur(b.arbres || b.loin, 0x0a0a10, sombre ? 0.45 : 0.3);
+    const cleArbre = typeof textureArbre === 'function' ? textureArbre(scene, v.arbres) : null;
     const g = scene.add.graphics();
     for (let x = -60; x < 1100; x += 80 + (x * 3) % 50) {
       if (v.repere && x > 500 && x < 880) continue;   // (on laisse voir le repère)
-      dessinerArbreVariante(g, v.arbres, x, sol, 60 + (x * 7) % 70, 22 + (x * 5) % 18, teinte);
+      // (v0.81) des arbres peints, un peu voilés par la distance ; sinon l'ancienne silhouette
+      if (cleArbre) scene.planMoyen.add(scene.add.image(x, sol + 2, cleArbre).setOrigin(0.5, 1).setScale(0.75 + ((x * 7) % 40) / 100).setFlipX((x * 3) % 2 === 0).setTint(sombre ? 0x9a9aa0 : 0xd8d8d0));
+      else dessinerArbreVariante(g, v.arbres, x, sol, 60 + (x * 7) % 70, 22 + (x * 5) % 18, teinte);
     }
     scene.planMoyen.add(g);
   }
+  if (v.sombre) scene.add.rectangle(480, 185, 960, 370, v.sombre, 0.45).setDepth(-1.5);   // (un ciel lourd, menaçant)
   if (v.sol) { const g = scene.add.graphics(); dessinerSolVariante(g, 370, v.sol); scene.premierPlan.add(g); }
   scene.fauneRecit = (v.faune || []).map(f => lancerFaune(scene, f, scene.planMoyen)).filter(Boolean);
   return !!v.arbres;

diff --git a/src/main.js b/src/main.js
@@ -1,5 +1,5 @@
 // La version du jeu (affichée sur l'écran titre) : on l'augmente à chaque mise à jour publiée.
-const VERSION_JEU = 'v 0.80';
+const VERSION_JEU = 'v 0.81';
 // Point d'entrée : configuration de Phaser et liste des scènes.
 
 // Le jeu est en pixel art (pixels nets), mais les textes doivent rester lisses et lisibles :

diff --git a/docs/game-design.md b/docs/game-design.md
@@ -331,7 +331,8 @@ Chaque étape doit donner une version **jouable**.
 | v 0.77 | **Les deux contrées ★1 dès le jour 1** (option A, choisie le 18/10) | Les Vergers de Bourg-Joyeux ne demandent plus de réputation : ils s'ouvrent dès le premier jour avec les Collines de la Comté, puis les ★2 arrivent au jour 2. Plus jamais une ★1 après une ★2. |
 | v 0.78 | **Des récits différents d'une destination à l'autre** (planche 11 : principe validé le 18/10, à détailler davantage) | Le ciel, le sol et les couleurs restent ceux du royaume (on sait toujours où l'on est), mais chaque destination a ses arbres, un repère au loin, ses détails au premier plan et ses bêtes (`recitVariantes.js`) : Collines (meules, moutons), Vergers (pommiers chargés, moulin, pommes au sol, abeilles), Vallon (saules, chaumière des guérisseuses, fleurs médicinales, papillons), Abbaye (cyprès, clocher, lavande, colombes), Forêt des Murmures (grands chênes, champignons, fougères, un cerf), Pont des Trolls (sapins, le pont de pierre, corbeaux), Chamans (totems, crânes et plumes, lucioles), Mines (chevalement, wagonnet, chauves-souris), Khaz-Durim (la porte naine dans la montagne, braises), Sanctuaire (bouleaux, arches elfiques, fleurs luisantes), Lac des Lunes (le lac et son reflet de lune, roseaux, poissons qui sautent), Opale (flèches de cristal, étincelles), Bibliothèque (la tour aux fenêtres éclairées, pages au sol, livres qui volent), Terres Désolées (cactus, squelette géant, vautours), Tombeaux (colonnes brisées, pyramide, poteries), Fort des Orcs (pieux, palissade, corbeaux), Mines Rouges (échafaudages, pierres rouges, braises), Pics Gelés (sapins, aigle), Col des Hurlements (cairn et fanion, corbeaux). Planche 10 : les provisions redessinées en 32 × 32. |
 | v 0.79 | **Les nouvelles provisions dans le jeu** (planche 10 validée le 18/10) | Ration, gourde, flèches, potion, bandages, torche, corde, antidote, cape chaude, bouclier, amulette, fer, cuir, bois et fil d'or sont dessinés en 32 × 32 et affichés à la taille des anciennes icônes : deux fois plus de détails partout (étals, comptoir, commandes, récits). Les armes gardent leur dessin. |
-| v 0.80 | **Des repères peints en pixel art** (planche 11 v2 à valider) | Les repères au loin des récits ne sont plus des silhouettes pâles mais de vrais dessins dont on voit les matériaux (`reperesHD.js`) : la pyramide en gradins de blocs de grès, son pyramidion doré, son obélisque gravé et ses colonnes ; le fort des orcs en rondins taillés en pointe, liés de fer, avec sa tour de guet, sa bannière rouge au crâne, des crânes sur des piques et des torches ; les Mines Rouges avec leur paroi sombre veinée de minerai qui luit, l'échafaudage, la poulie et son seau, les chariots de minerai, les lanternes ; la porte de Khaz-Durim en bronze et runes d'or entre deux rois nains de pierre, avec ses braseros ; le moulin de pierre et ses ailes de toile ; la chaumière en torchis et colombages, au toit de chaume, et son jardin de simples ; l'abbaye, sa rosace et son clocher ; les meules de foin et une porte ronde de hobbit ; le vieux chêne creux et la cabane de rondins du bûcheron (hache plantée dans la souche) ; le pont de moellons, sa mousse, le panneau du péage et des os sous l'arche ; les totems peints, à plumes, et la hutte de peaux ; le chevalement de mine, sa roue, son câble, l'entrée étayée et le wagonnet ; les arches de marbre et l'arbre argenté ; le lac, son ponton et sa barque ; les tours de cristal d'Opale reliées par des ponts ; la tour de la Bibliothèque et ses livres qui volent ; le squelette géant à demi enfoui ; la tour de guet naine enneigée ; le cairn, ses fanions de prière et le chariot renversé. Le fort et les mines se détachent maintenant du fond rouge. |
+| v 0.80 | **Des repères peints en pixel art** (planche 11 v2 validée le 18/10) | Les repères au loin des récits ne sont plus des silhouettes pâles mais de vrais dessins dont on voit les matériaux (`reperesHD.js`) : la pyramide en gradins de blocs de grès, son pyramidion doré, son obélisque gravé et ses colonnes ; le fort des orcs en rondins taillés en pointe, liés de fer, avec sa tour de guet, sa bannière rouge au crâne, des crânes sur des piques et des torches ; les Mines Rouges avec leur paroi sombre veinée de minerai qui luit, l'échafaudage, la poulie et son seau, les chariots de minerai, les lanternes ; la porte de Khaz-Durim en bronze et runes d'or entre deux rois nains de pierre, avec ses braseros ; le moulin de pierre et ses ailes de toile ; la chaumière en torchis et colombages, au toit de chaume, et son jardin de simples ; l'abbaye, sa rosace et son clocher ; les meules de foin et une porte ronde de hobbit ; le vieux chêne creux et la cabane de rondins du bûcheron (hache plantée dans la souche) ; le pont de moellons, sa mousse, le panneau du péage et des os sous l'arche ; les totems peints, à plumes, et la hutte de peaux ; le chevalement de mine, sa roue, son câble, l'entrée étayée et le wagonnet ; les arches de marbre et l'arbre argenté ; le lac, son ponton et sa barque ; les tours de cristal d'Opale reliées par des ponts ; la tour de la Bibliothèque et ses livres qui volent ; le squelette géant à demi enfoui ; la tour de guet naine enneigée ; le cairn, ses fanions de prière et le chariot renversé. Le fort et les mines se détachent maintenant du fond rouge. |
+| v 0.81 | **Elfes majestueux, mages plus riches, lieux qui font peur** (planche 11 v3 à valider) | Demandes du 18/10. **Sanctuaire des Elfes façon Lothlórien** : un mallorn géant au tronc d'argent, trois étages de feuilles d'or en touffes, un talan blanc et sa maison aux fenêtres de lumière, l'escalier qui tourne autour du tronc et ses lanternes, des lueurs bleues qui flottent, d'autres mallorns autour. **Lac des Lunes façon Fondcombe** : la vallée entre des falaises à strates et leurs sapins, trois cascades, la maison en terrasses de pierre claire aux fenêtres en arc dorées, deux tours fines, un pont en arches, des arbres d'automne. **Cité d'Opale** : un rempart de cristal et sa porte d'or, une forêt de flèches et de coupoles, la grande tour et son anneau d'or qui flotte, des éclats de cristal suspendus, des ponts de lumière. **Bibliothèque** : la grande tour et ses contreforts, deux tourelles, l'escalier qui s'enroule, un livre géant ouvert qui flotte au sommet, des rochers enchaînés, des piles de livres ; les livres qui volent ont maintenant une couverture et des pages. **Terres Désolées** : trois carcasses (le grand squelette, une petite cage thoracique, un crâne cornu sur une pique), des os partout, deux vautours perchés et trois qui tournent dans le ciel. **Col des Hurlements** : un ciel lourd, des crocs de roche noire, une lune pâle, deux loups noirs qui hurlent sur l'éperon, des arbres morts tordus, des crânes sur des pieux, une bannière déchirée, le vent qui siffle. **Pics Gelés** : une aiguille de roche immense, la tour naine perchée tout en haut, un pont de corde vers un autre pic, une mer de nuages en dessous, des stalactites de glace, une bannière gelée tendue par le vent, le blizzard. **Les arbres du plan moyen sont peints** eux aussi (pommiers, saules, cyprès, chênes, sapins enneigés, mallorns, arbres d'automne, cactus, colonnes, pieux). |
 | 10b | **La forge chez soi** (validé) | À ★3 (le saut d'un an), on peut construire une forge dans l'arrière-boutique et engager un premier forgeron ; un second à ★4. Chaque nuit, ils fabriquent des armes avec les matériaux en stock. |
 | 10c | **La rue et le familier** (validé : le chat chasse les rats de la réserve et prévient parfois de la garde) | La rue du comptoir s'agrandit : on y marche avec son personnage jusqu'aux lieux du quartier (marché, banque, forge, fontaine, plus tard le petit bar), en plus des raccourcis depuis la maison. En s'y promenant le soir, on croise le chat de gouttière : on le nourrit quelques soirs de suite, et il nous adopte (premier familier). |
 | 11 | **Aider pendant l'aventure** | Messages de détresse, le grand aigle, les mercenaires. |
